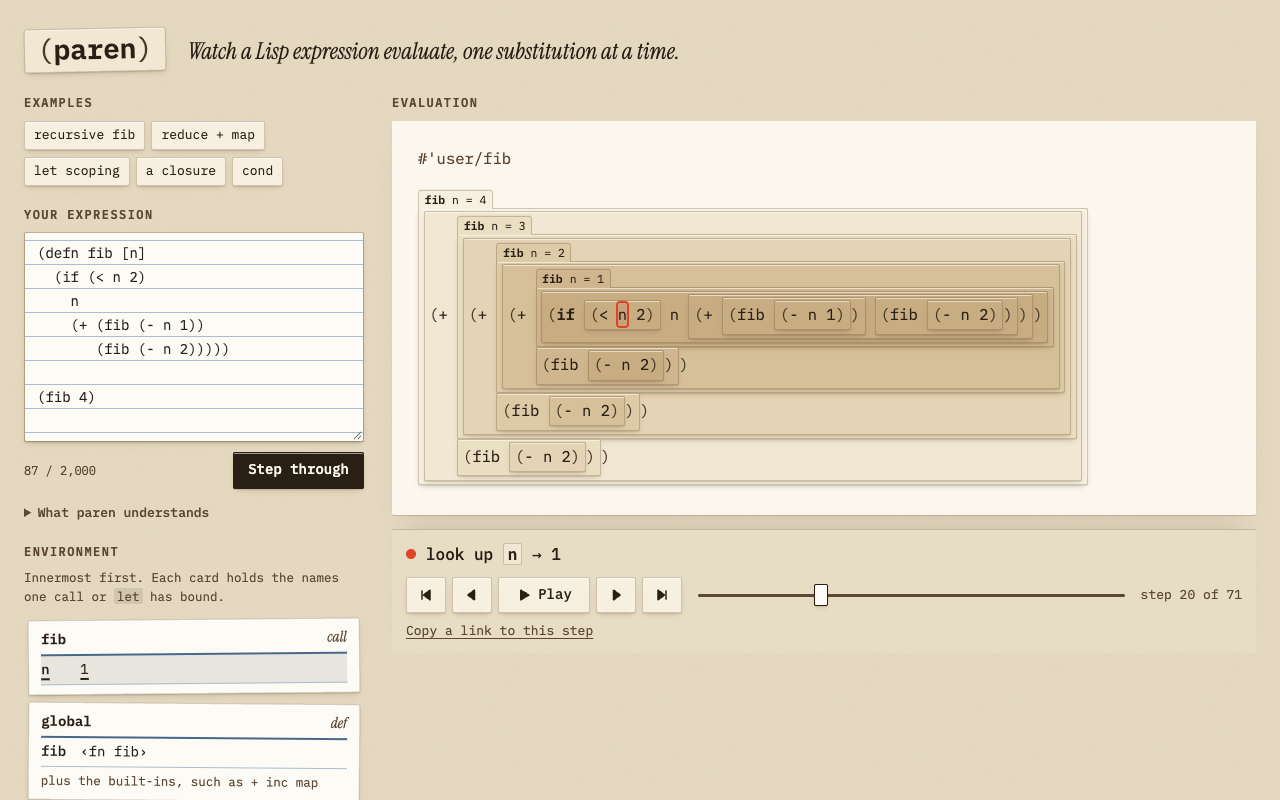
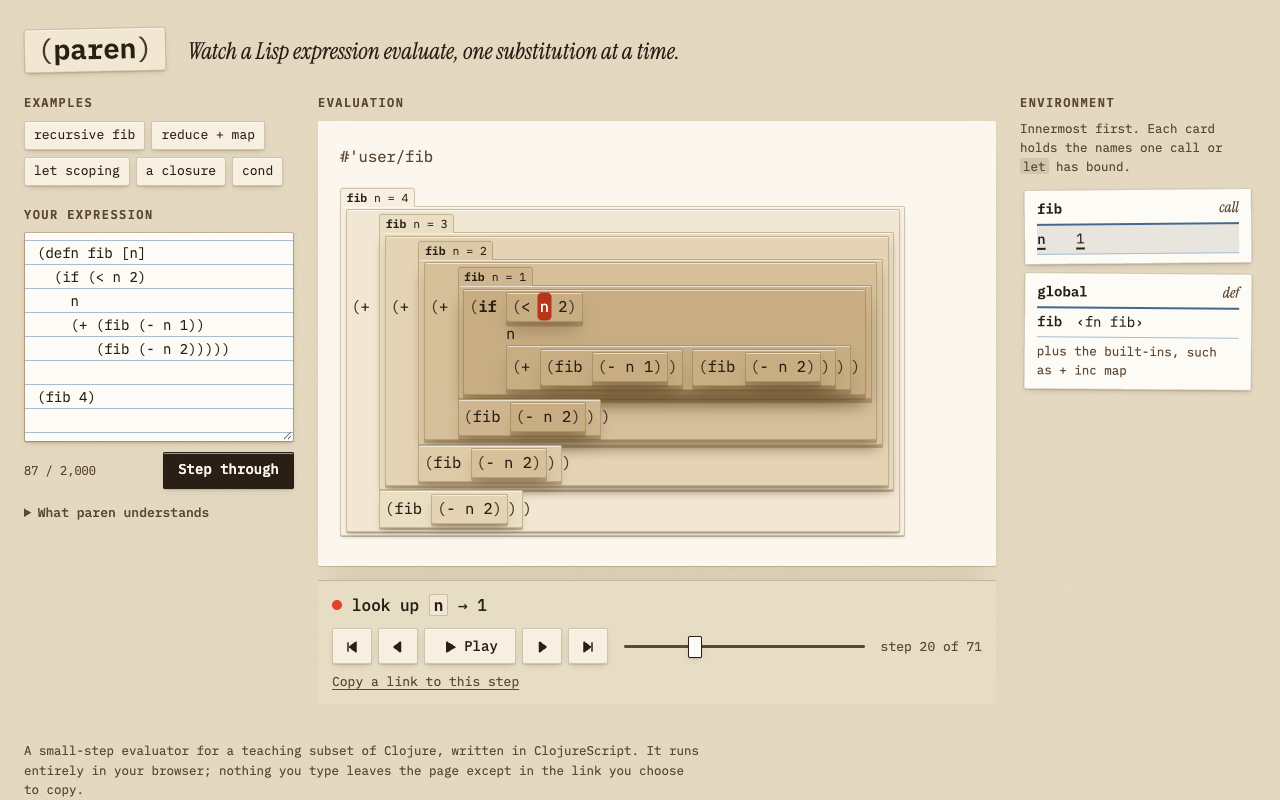
Keep stage, caption and environment in view; stack the paper
- From 1,180 px wide the desk has three columns (source, stage,
  environment), so at 1280x800 the environment cards sit beside the stage
  instead of below the fold under the editor.
- Cards read as stacked paper: a cut edge and a drop shadow whose offset
  grows with nesting depth, and wider shade steps in the dark theme.
- The redex is washed vermilion with a folded corner (a single name is a
  solid vermilion chip) instead of a thin ring.
- The contrast test also measures text on the washed redex card, and
  reads color-mix() colours correctly.
- shots.mjs can open any expression; new docs/screenshot.png.

diff --git a/public/styles.css b/public/styles.css
@@ -23,8 +23,16 @@
   --lift: rgba(70, 46, 16, 0.2);
   --shadow: 0 1px 0 rgba(255, 255, 255, 0.55) inset, 0 1px 1px rgba(70, 46, 16, 0.12), 0 3px 7px -3px rgba(70, 46, 16, 0.28);
   --shadow-hi: 0 1px 0 rgba(255, 255, 255, 0.55) inset, 0 2px 2px rgba(70, 46, 16, 0.12), 0 10px 18px -8px rgba(70, 46, 16, 0.45);
+  /* Stage cards: a lit top edge, the paper's cut edge, and a drop shadow
+     whose offset grows with nesting depth (see .card). */
+  --card-hi: rgba(255, 255, 255, 0.6);
+  --card-cut: rgba(92, 62, 24, 0.3);
+  --card-drop: rgba(70, 46, 16, 0.34);
   --verm: #df4428;
   --verm-wash: rgba(223, 68, 40, 0.1);
+  --verm-mix: 28%;
+  --verm-fill: #b8341c;
+  --on-verm: #fffaf0;
   --index: #fdfbf5;
   --rule: #a9bdd2;
   --head-rule: #45688c;
@@ -38,14 +46,14 @@
   :root:not([data-theme="light"]) {
     --desk: #201811;
     --sheet: #2b2118;
-    --c0: #4b3c2d;
-    --c1: #463829;
-    --c2: #413426;
-    --c3: #3c3023;
-    --c4: #382c20;
-    --c5: #34291e;
-    --c6: #30261c;
-    --c7: #2d231a;
+    --c0: #4e3e2d;
+    --c1: #453728;
+    --c2: #3d3023;
+    --c3: #35291e;
+    --c4: #30251b;
+    --c5: #2c2219;
+    --c6: #292017;
+    --c7: #261e16;
     --ink: #f2e8d4;
     --ink-2: #cdbd9f;
     --paren: #c4b193;
@@ -53,8 +61,14 @@
     --lift: rgba(0, 0, 0, 0.5);
     --shadow: 0 1px 0 rgba(255, 236, 200, 0.07) inset, 0 1px 1px rgba(0, 0, 0, 0.35), 0 3px 8px -3px rgba(0, 0, 0, 0.6);
     --shadow-hi: 0 1px 0 rgba(255, 236, 200, 0.08) inset, 0 2px 2px rgba(0, 0, 0, 0.35), 0 10px 20px -8px rgba(0, 0, 0, 0.8);
+    --card-hi: rgba(255, 236, 200, 0.12);
+    --card-cut: rgba(0, 0, 0, 0.6);
+    --card-drop: rgba(0, 0, 0, 0.6);
     --verm: #ff6a48;
     --verm-wash: rgba(255, 106, 72, 0.13);
+    --verm-mix: 26%;
+    --verm-fill: #ff6a48;
+    --on-verm: #1c140e;
     --index: #33291f;
     --rule: rgba(150, 178, 206, 0.32);
     --head-rule: #8fb0d2;
@@ -99,7 +113,7 @@ button, input, textarea, select {
 /* ---------------------------------------------------------------- masthead */
 
 .masthead {
-  max-width: 1320px;
+  max-width: 1440px;
   margin: 0 auto;
   padding: 28px 24px 10px;
   display: flex;
@@ -151,19 +165,32 @@ button, input, textarea, select {
 
 /* ---------------------------------------------------------------- the desk */
 
+/* Wide screens: source | stage | environment, so the stage, its caption
+   and the environment are all in view at once. */
 .desk {
-  max-width: 1320px;
+  max-width: 1440px;
   margin: 0 auto;
   padding: 12px 24px 24px;
   display: grid;
-  grid-template-columns: minmax(290px, 340px) minmax(0, 1fr);
+  grid-template-columns: minmax(250px, 270px) minmax(0, 1fr) minmax(210px, 236px);
   grid-template-areas:
-    "examples stage"
-    "source   stage"
-    "env      stage";
+    "examples stage env"
+    "source   stage env"
+    ".        stage env";
   grid-template-rows: auto auto 1fr;
-  gap: 20px 28px;
+  gap: 20px 24px;
   align-items: start;
+}
+
+@media (max-width: 1179px) {
+  .desk {
+    grid-template-columns: minmax(290px, 340px) minmax(0, 1fr);
+    grid-template-areas:
+      "examples stage"
+      "source   stage"
+      "env      stage";
+    gap: 20px 28px;
+  }
 }
 
 .examples { grid-area: examples; min-width: 0; }
@@ -281,7 +308,7 @@ button, input, textarea, select {
 .stage {
   position: relative;
   min-height: 380px;
-  padding: 26px 26px 30px;
+  padding: 24px 22px 30px;
   background-color: var(--sheet);
   background-image: inherit;
   border-radius: 2px;
@@ -314,8 +341,13 @@ button, input, textarea, select {
   white-space: pre;
 }
 
-/* A card is a sheet of paper; each nesting level is a slightly darker one. */
+/* A card is a sheet of paper cut out and stacked on the one that holds it.
+   Each nesting level is a darker shade and sits higher: its cut edge
+   thickens and its shadow falls further, by --z. */
 .card {
+  --d: 0;
+  --z: var(--d);
+  --bg: var(--c0);
   position: relative;
   display: inline-flex;
   flex-direction: column;
@@ -324,19 +356,21 @@ button, input, textarea, select {
   padding: 0.14em 0.5ch 0.2em;
   border: 1px solid var(--edge);
   border-radius: 2px;
-  background-color: var(--c0);
-  box-shadow: var(--shadow);
+  background-color: var(--bg);
+  box-shadow:
+    0 1px 0 var(--card-hi) inset,
+    0 calc(1px + var(--z) * 0.5px) 0 var(--card-cut),
+    0 calc(2px + var(--z) * 1.5px) calc(4px + var(--z) * 2px) calc(-2px - var(--z) * 0.5px) var(--card-drop);
   transform-origin: 50% 0;
   transition: box-shadow 160ms ease, transform 160ms ease;
 }
-.card.redex > .tab { box-shadow: 0 -2px 4px -2px var(--lift); }
-.card.d1 { background-color: var(--c1); }
-.card.d2 { background-color: var(--c2); }
-.card.d3 { background-color: var(--c3); }
-.card.d4 { background-color: var(--c4); }
-.card.d5 { background-color: var(--c5); }
-.card.d6 { background-color: var(--c6); }
-.card.d7 { background-color: var(--c7); }
+.card.d1 { --d: 1; --bg: var(--c1); }
+.card.d2 { --d: 2; --bg: var(--c2); }
+.card.d3 { --d: 3; --bg: var(--c3); }
+.card.d4 { --d: 4; --bg: var(--c4); }
+.card.d5 { --d: 5; --bg: var(--c5); }
+.card.d6 { --d: 6; --bg: var(--c6); }
+.card.d7 { --d: 7; --bg: var(--c7); }
 
 .ln {
   display: flex;
@@ -388,20 +422,41 @@ button, input, textarea, select {
 
 .card.pick { padding-left: 0.6ch; }
 
-/* The redex: the one sub-expression about to reduce. */
-.redex {
-  outline: 2px solid var(--verm);
-  outline-offset: 1px;
-}
+/* The redex: the one sub-expression about to reduce. A card is washed
+   vermilion, ringed, lifted two levels and dog-eared (it is about to fold);
+   a single name or value becomes a solid vermilion chip. */
 .card.redex {
+  --z: calc(var(--d) + 2);
   background-image: linear-gradient(var(--verm-wash), var(--verm-wash));
-  box-shadow: var(--shadow-hi);
+  outline: 2px solid var(--verm);
+  outline-offset: 0;
   transform: translateY(-1px);
   z-index: 1;
 }
+@supports (background-color: color-mix(in srgb, red 50%, blue)) {
+  .card.redex {
+    background-color: color-mix(in srgb, var(--verm) var(--verm-mix), var(--bg));
+    background-image: none;
+  }
+}
+.card.redex > .ln > .br { color: var(--ink); }
+.card.redex::after {
+  content: "";
+  position: absolute;
+  top: -2px;
+  right: -2px;
+  border-style: solid;
+  border-width: 0 0.78em 0.78em 0;
+  border-color: transparent var(--verm) transparent transparent;
+  filter: drop-shadow(-1px 1px 0 var(--card-cut));
+  pointer-events: none;
+}
+.card.redex > .tab { box-shadow: 0 -2px 4px -2px var(--lift); outline: 2px solid var(--verm); outline-offset: 0; clip-path: inset(-3px -3px 0 -3px); }
 .atom.redex {
-  background: var(--verm-wash);
-  outline-offset: 0;
+  background: var(--verm-fill);
+  color: var(--on-verm);
+  box-shadow: 0 0 0 0.16em var(--verm-fill);
+  outline: 0;
 }
 
 .ghosts {
@@ -668,7 +723,7 @@ button, input, textarea, select {
 /* ---------------------------------------------------------------- colophon */
 
 .colophon {
-  max-width: 1320px;
+  max-width: 1440px;
   margin: 0 auto;
   padding: 8px 24px 40px;
   font-size: 12.5px;

diff --git a/README.md b/README.md
@@ -2,9 +2,9 @@
 
 **Watch a Lisp expression evaluate, one substitution at a time.**
 
-paren is a stepper for a small teaching subset of Clojure. Paste an expression (or pick one of five examples) and step through its evaluation. Each sub-expression is a paper card, nested inside the one that contains it. The card about to reduce (the *redex*) is outlined in vermilion. When you step, it folds shut into its value. The environment sits beside it as a stack of index cards, and every step has a one-line caption such as ``look up `n` → 3``.
+paren is a stepper for a small teaching subset of Clojure. Paste an expression (or pick one of five examples) and step through its evaluation. Each sub-expression is a paper card, stacked on the one that contains it; deeper cards are darker and sit higher, with longer shadows. The part about to reduce (the *redex*) is washed in vermilion, with a folded corner, or becomes a vermilion chip when it is a single name. When you step, it folds shut into its value. The environment sits beside the stage as a stack of index cards, and every step has a one-line caption such as ``look up `n` → 3``.
 
-![paren stepping through a recursive fib, three calls deep](docs/screenshot.png)
+![paren stepping through a recursive fib, four calls deep, with the environment beside the stage](docs/screenshot.png)
 
 ## The 30-second experience
 
@@ -29,7 +29,7 @@ Everything that matters is ClojureScript under `src/paren/`.
   - `map`, `filter` and `reduce` unfold into the calls they will make, so a user function passed to `map` shows every call as its own steps.
   - Each step returns a caption, the redex's path, the environment at that point, and (for lookups) which frame answered.
 - **Tracing.** `trace` runs the whole program once and keeps every state. Clojure's persistent data structures share structure between states, so keeping thousands of snapshots is cheap, and stepping back or scrubbing is just indexing.
-- **Drawing.** `layout.cljs` turns a tree into cards and decides line breaks like a Clojure pretty-printer. A card stays on one line if it fits the stage width (measured in `ch`); otherwise it breaks the way Clojure is usually indented. `cond` pairs always get a line each. `app.cljs` renders that with plain DOM calls (no framework, to keep the bundle small) and runs the fold animation with the Web Animations API.
+- **Drawing.** `layout.cljs` turns a tree into cards and decides line breaks like a Clojure pretty-printer. A card stays on one line if it fits the stage width (measured in `ch`); otherwise it breaks the way Clojure is usually indented. `cond` pairs always get a line each. `app.cljs` renders that with plain DOM calls (no framework, to keep the bundle small) and runs the fold animation with the Web Animations API. From 1,180 px wide, the page has three columns (source, stage, environment), so the stage, its caption and the environment are in view together.
 
 ### The subset
 
@@ -75,11 +75,11 @@ npm run serve        # optional: serve dist/ on a random free port
 
 | file | raw | gzip |
 |---|---|---|
-| `js/main.<hash>.js` (everything: reader, evaluator, UI, cljs.core) | 285.7 KiB | 69.0 KiB |
-| `css/styles.<hash>.css` | 17.1 KiB | 4.8 KiB |
-| `index.html` | 5.7 KiB | 2.1 KiB |
+| `js/main.<hash>.js` (everything: reader, evaluator, UI, cljs.core) | 289.4 KiB | 70.1 KiB |
+| `css/styles.<hash>.css` | 19.2 KiB | 5.5 KiB |
+| `index.html` | 5.9 KiB | 2.2 KiB |
 
-About 65% of the bundle (by optimised size) is `cljs.core` itself; the whole first load of our own files is 75.8 KiB gzipped. Google Fonts (IBM Plex Mono and Instrument Serif) load separately.
+About 65% of the bundle (by optimised size) is `cljs.core` itself; the whole first load of our own files is 77.7 KiB gzipped. Google Fonts (IBM Plex Mono and Instrument Serif) load separately.
 
 ## Test
 
@@ -101,7 +101,7 @@ This runs three things:
 2. **The build.**
 3. **Node tests** (`tests/`):
    - a `dist/` smoke test: hashed files, the third-party notices, `_headers`, a 100 KiB gzip budget, and serving with the production headers;
-   - a **headless Chrome** check over the DevTools protocol, run against `dist/` with the production Content-Security-Policy. It steps, scrubs, plays, opens shared links and feeds in bad input. It opens hostile share links, which must settle within 5 seconds with their message, and links with a malformed step such as `s=abc`, which must open at a real step. It checks for no horizontal scroll at a true 400 px width (device emulation) on every step of `fib`, WCAG AA contrast in light and dark, and instant steps under `prefers-reduced-motion`. It fails on any console error or exception.
+   - a **headless Chrome** check over the DevTools protocol, run against `dist/` with the production Content-Security-Policy. It steps, scrubs, plays, opens shared links and feeds in bad input. It opens hostile share links, which must settle within 5 seconds with their message, and links with a malformed step such as `s=abc`, which must open at a real step. It checks for no horizontal scroll at a true 400 px width (device emulation) on every step of `fib`, WCAG AA contrast in light and dark (including text on the vermilion redex, as a chip and as a washed card), and instant steps under `prefers-reduced-motion`. It fails on any console error or exception.
 
 If Chrome isn't found, the browser tests are skipped. `REQUIRE_BROWSER=1` makes that a failure, and `CHROME_PATH` points at a specific browser.
 
@@ -142,7 +142,7 @@ There is deliberately no `npm run deploy` script and no `account_id` in `wrangle
 - **Printing differs from a REPL.** A function prints as `‹fn fib›` or `‹fn [x]›`, where a REPL would print an opaque object.
 - **The whole trace is computed when you press Step through**, on the main thread, up to the 5,000-step cap. Long traces take a moment. No timing is claimed.
 - **Layout is estimated in `ch`.** Very deep nesting can make the stage scroll sideways inside its own frame; the page itself does not scroll sideways.
-- **Contrast is checked by the automated test** at a particular step in each theme, not for every possible program.
+- **Contrast is checked by the automated test** at two steps of `fib` in each theme (one where the redex is a name, one where it is a whole card), not for every possible program.
 
 ## Next
 
